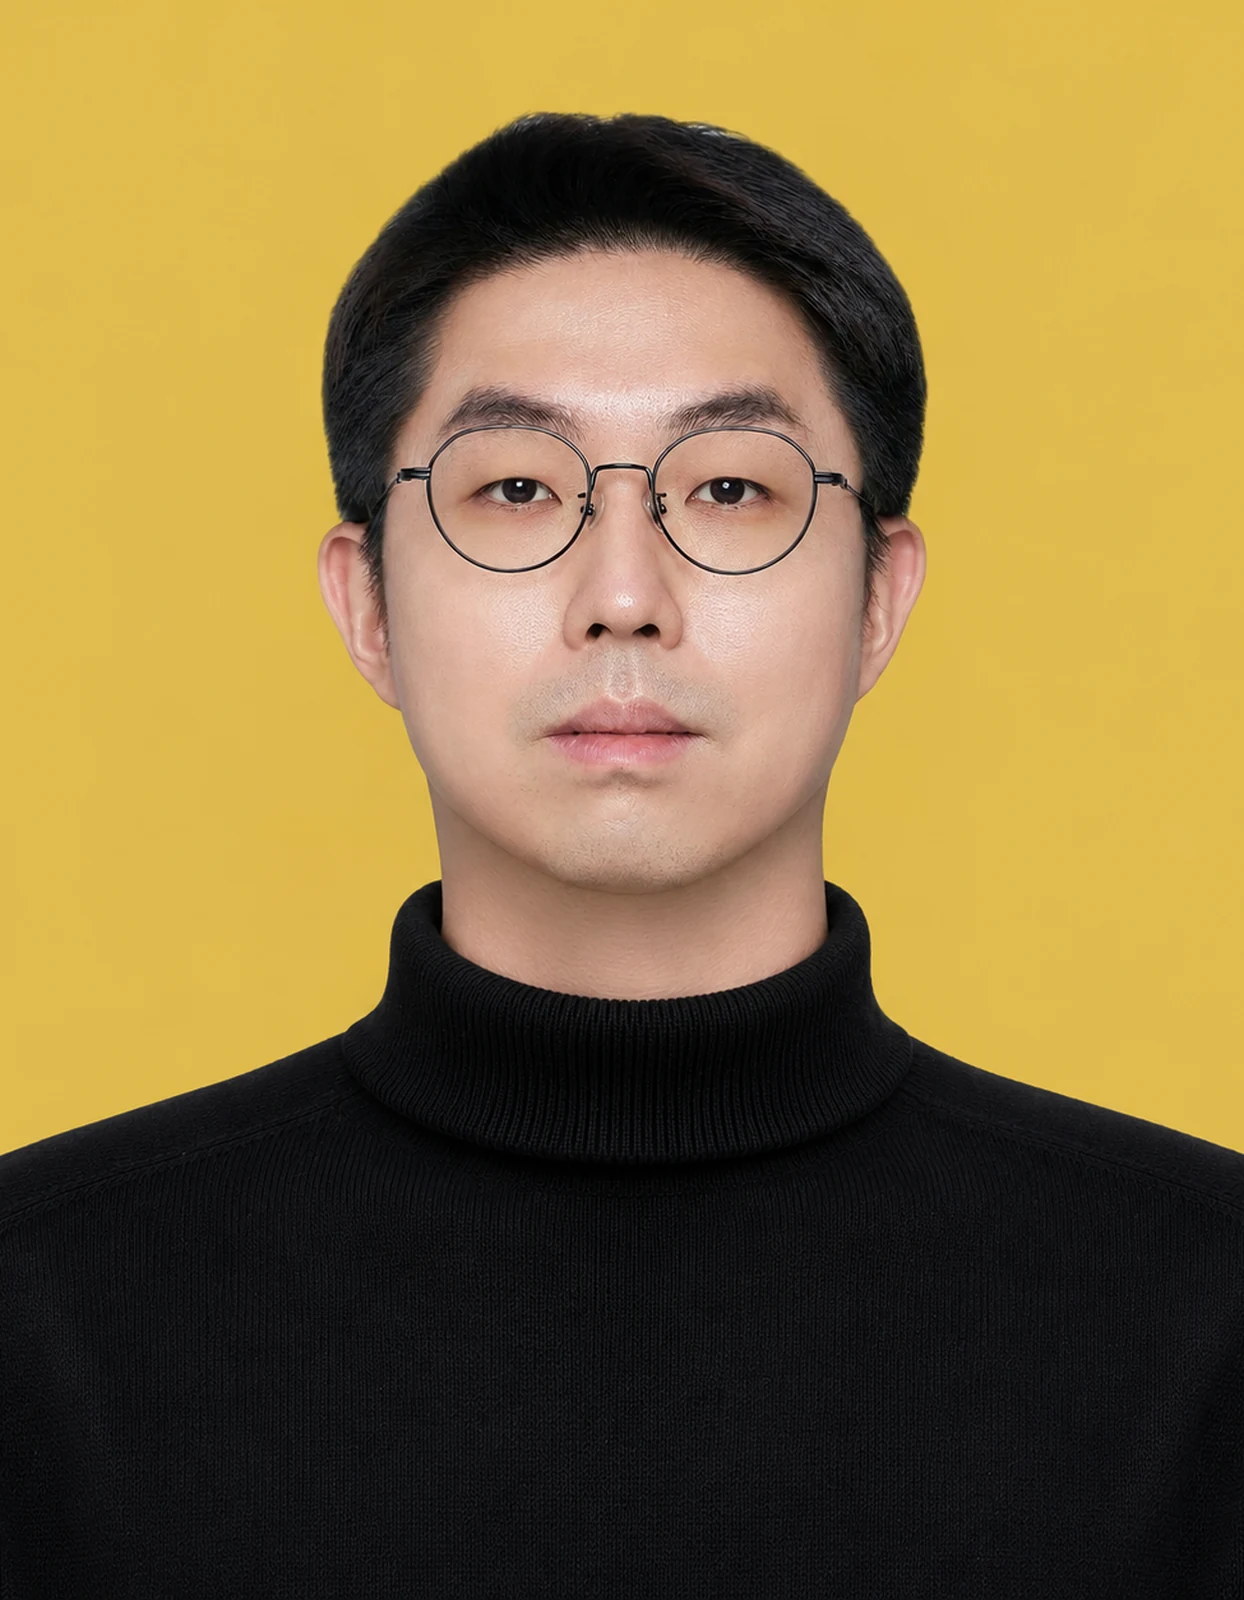
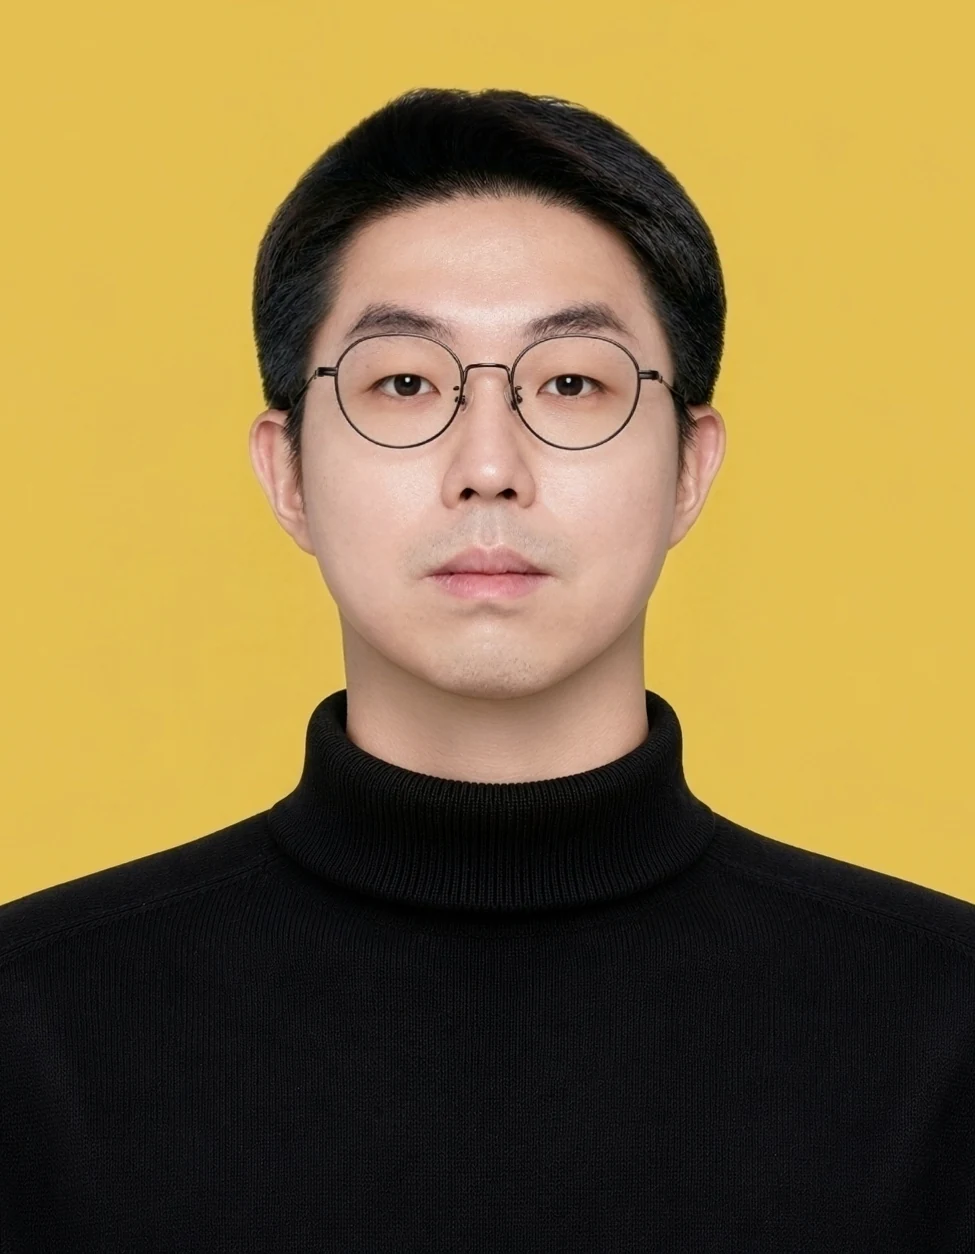
20261124-1700

diff --git a/README.md b/README.md
@@ -534,7 +534,7 @@ desktop (1440px)
 
 2026-10-16 기준 세 차례 점검 결과 (숫자는 2026-10-19 갱신):
 - **데이터:** 인용문 변경 0건, 오탈자 검사와 인용 검사는 알려진 오탐(국문 제목만 있는 저서·보고서)만 남았습니다.
-- **화면 숫자:** 논문 351편(학술지 82·학회 263·저서 4·보고서 2), 프로젝트 21건(연구실 출범 후 7건), 디렉터 수상 87건(연구실 출범 후 14건), 학술 활동 115건(학술지 리뷰 80곳), 강의 강사 12학기·조교 12학기, 인용 지표 343/h 12(2026-11-08 기준)이 모든 페이지와 데이터에서 일치합니다.
+- **화면 숫자:** 논문 352편(학술지 83·학회 263·저서 4·보고서 2), 프로젝트 21건(연구실 출범 후 7건), 디렉터 수상 87건(연구실 출범 후 14건), 학술 활동 115건(학술지 리뷰 80곳), 강의 강사 12학기·조교 12학기, 인용 지표 343/h 12(2026-11-08 기준)이 모든 페이지와 데이터에서 일치합니다.
 - **중복 내용 (2026-10-21):** 디렉터 카드 6곳 통일(이름·국문 표기·사무실 국문 주소·전화번호·버튼 이름), Resume 창의 "20+ journal articles"를 실제 수(67편)로, 데이터에 없는 리뷰 학술지 2곳을 실제 리뷰 기록으로 교체, 포트폴리오 경력에 빠진 KAIST 전문연구요원 추가, `directorInfo` 이메일 오기 수정.
 - **글:** 영문 철자 오류 0건, 학회명 표기 흔들림 0건, 깨진 링크·이미지 0건, 요일 표기 10곳 모두 정확합니다.
 
